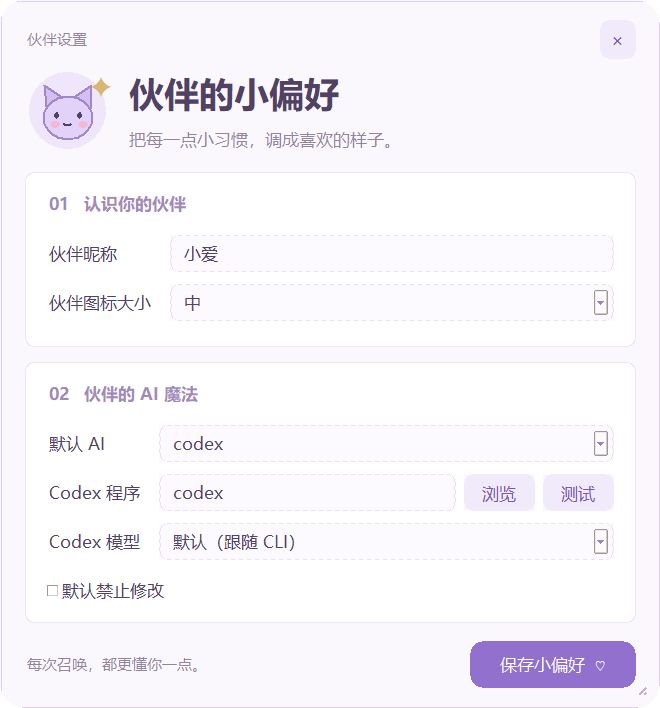
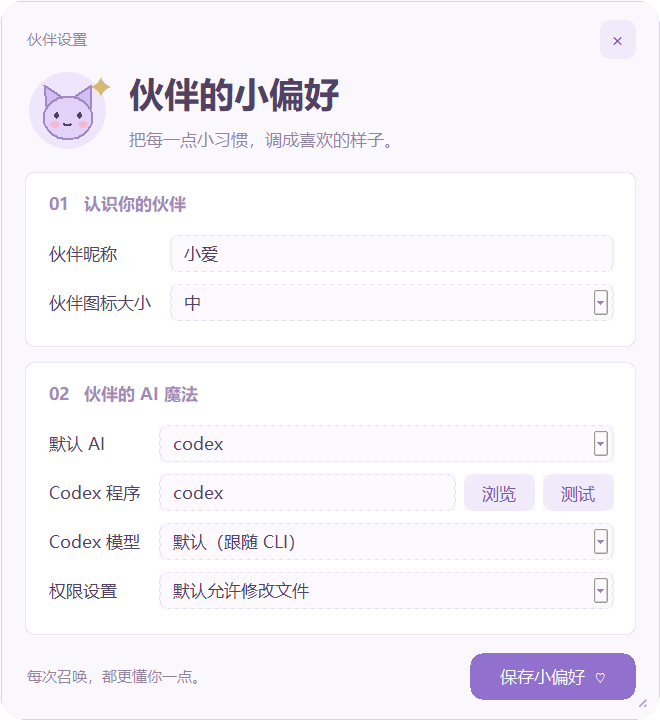
Replace default read-only toggle with permission dropdown

diff --git a/tests/test_settings.py b/tests/test_settings.py
@@ -6,6 +6,28 @@ from ai_help.settings import Settings
 
 
 class SettingsTests(unittest.TestCase):
+    def test_permission_dropdown_loads_existing_config_and_saves_write_access(self):
+        root = tk.Tk()
+        root.withdraw()
+        try:
+            for forbidden in (False, True):
+                with self.subTest(forbidden=forbidden), \
+                     patch('ai_help.settings.load_config', return_value=dict(DEFAULTS, forbid_modification=forbidden)), \
+                     patch('ai_help.settings.save_config') as save, \
+                     patch('ai_help.settings.refresh_menu'):
+                    settings = Settings(tk.Toplevel(root))
+                    self.assertEqual(str(settings.permission_widget['state']), 'readonly')
+                    self.assertEqual(tuple(settings.permission_widget['values']),
+                                     ('默认允许修改文件', '默认禁止修改文件'))
+                    self.assertEqual(settings.permission.get(), '默认禁止修改文件' if forbidden
+                                     else '默认允许修改文件')
+                    settings.permission.set('默认允许修改文件')
+                    settings.save()
+                    self.assertFalse(save.call_args.args[0]['forbid_modification'])
+                    self.assertEqual(save.call_args.args[0]['mode'], 'workspace-write')
+        finally:
+            root.destroy()
+
     def test_manual_program_test_refreshes_cache_and_reports_success_or_failure(self):
         root = tk.Tk()
         root.withdraw()
@@ -247,13 +269,14 @@ class SettingsTests(unittest.TestCase):
                 settings.values['nickname'].set('团子')
                 settings.values['backend'].set('claude')
                 settings.values['pet_size'].set('小')
-                settings.forbid.set(True)
+                settings.permission.set('默认禁止修改文件')
                 settings.save()
                 config = save.call_args.args[0]
                 self.assertEqual(config['pet_size'], '小')
                 self.assertEqual(config['nickname'], '团子')
                 self.assertEqual(config['backend'], 'claude')
                 self.assertEqual(config['mode'], 'read-only')
+                self.assertTrue(config['forbid_modification'])
                 menu.assert_called_once_with('团子')
             finally:
                 root.destroy()

diff --git a/ai_help/settings.py b/ai_help/settings.py
@@ -139,11 +139,16 @@ class Settings:
         for backend in self.backend_widgets:
             self.values[backend + '_path'].trace_add('write', self.schedule_models)
         self.update_backend_fields()
-        self.forbid = tk.BooleanVar(value=self.config['forbid_modification'])
-        forbid = ttk.Checkbutton(intelligence.body, text='默认禁止修改', variable=self.forbid,
-                                 style='Companion.TCheckbutton', cursor='hand2')
-        forbid.grid(row=7, column=0, columnspan=3, sticky='w', pady=(12, 0))
-        self.tips.append(HoverTip(forbid, '修改范围为工作目录；停止不会撤销修改。'))
+        permission_label = tk.Label(intelligence.body, text='权限设置', bg='white', fg=INK, font=FONT)
+        permission_label.grid(row=7, column=0, sticky='w', pady=9)
+        self.permission = tk.StringVar(value='默认禁止修改文件' if self.config['forbid_modification']
+                                       else '默认允许修改文件')
+        self.permission_widget = ttk.Combobox(
+            intelligence.body, textvariable=self.permission,
+            values=['默认允许修改文件', '默认禁止修改文件'], state='readonly',
+            style='Companion.TCombobox', font=FONT)
+        self.permission_widget.grid(row=7, column=1, columnspan=2, sticky='ew', padx=(16, 0), pady=6)
+        self.tips.append(HoverTip(self.permission_widget, '影响下次召唤的默认权限；修改范围为工作目录，停止不会撤销修改。'))
         footer = tk.Frame(content, bg=BG)
         footer.pack(side='bottom', fill='x', pady=(18, 0))
         tk.Label(footer, text='每次召唤，都更懂你一点。', bg=BG, fg=MUTED,
@@ -272,8 +277,9 @@ class Settings:
             messagebox.showerror('程序路径', '程序名称或路径不能为空。', parent=self.window)
             return
         self.config.update(updates)
-        self.config['forbid_modification'] = self.forbid.get()
-        self.config['mode'] = 'read-only' if self.forbid.get() else 'workspace-write'
+        forbid = self.permission.get() == '默认禁止修改文件'
+        self.config['forbid_modification'] = forbid
+        self.config['mode'] = 'read-only' if forbid else 'workspace-write'
         try:
             save_config(self.config)
             refresh_menu(nickname)

diff --git a/scripts/generate_docs_images.py b/scripts/generate_docs_images.py
@@ -67,8 +67,9 @@ def main():
                       text(454, y, '浏览', 16, '#7959A6'),
                       rect(520, y-26, 78, 38, '#F1EAFB', radius=10),
                       text(542, y, '测试', 16, '#7959A6')]
-    parts += [rect(70, 576, 15, 15, '#FCFAFF', '#C4B0DC', 4),
-              text(95, 590, '默认禁止修改', 15),
+    parts += [text(70, 590, '权限设置', 16),
+              rect(222, 564, 376, 38, '#FCFAFF', '#E8E0F0', 10),
+              text(236, 590, '默认允许修改文件', 16), text(574, 590, '⌄', 19, '#9D82BE'),
               text(53, 657, '每次召唤，都更懂你一点。', 13, '#93849F'),
               rect(448, 630, 172, 43, '#9270CE', radius=15),
               text(487, 658, '保存小偏好', 17, 'white')]

diff --git a/README.md b/README.md
@@ -34,7 +34,7 @@ CatHelper 提供桌面入口和对话界面，实际 AI 能力由你选择的 CL
 
 ### 1. 安装
 
-从 [Releases](https://github.com/wuhuaiwei/CatHelper/releases/latest) 下载 `CatAssistant-Setup-1.2.0-x64.exe`，双击按中文向导安装。
+从 [Releases](https://github.com/wuhuaiwei/CatHelper/releases/latest) 下载 `CatAssistant-Setup-1.2.1-x64.exe`，双击按中文向导安装。
 
 安装向导可勾选桌面快捷方式和资源管理器右键菜单。默认安装到当前用户的 `%LOCALAPPDATA%\Programs\CatAssistant`，无需管理员权限。安装包包含 Python、Tkinter 和猫咪图标。
 
@@ -82,7 +82,7 @@ CatHelper 提供桌面入口和对话界面，实际 AI 能力由你选择的 CL
 
 ## 修改权限与数据
 
-小猫菜单里的“允许修改”默认勾选，只影响当前召唤。可在设置中勾选“默认禁止修改”，让后续召唤从只读模式开始。
+小猫菜单里的“允许修改”默认勾选，只影响当前召唤。设置中的“权限设置”下拉框可选择“默认允许修改文件”或“默认禁止修改文件”，决定后续召唤的默认权限。
 
 - Codex 使用 `read-only` 或 `workspace-write`；文件目标的工作目录为其所在文件夹，写入模式可以修改整个工作目录。
 - Claude 分析时开放 Read / Glob / Grep，允许修改后再开放 Edit / Write，不开放 Bash。工具许可不是操作系统目录隔离，读取仍可能涉及工作目录之外。
@@ -128,7 +128,7 @@ python -m pip install pyinstaller==6.11.1
 # 还需要 Inno Setup 6；默认自动寻找 .tools/inno/ISCC.exe 或系统安装位置
 powershell -NoProfile -ExecutionPolicy Bypass -File .\scripts\build_installer.ps1
 # 指定编译器或版本时：
-# .\scripts\build_installer.ps1 -Iscc 'C:\path\ISCC.exe' -Version '1.2.0'
+# .\scripts\build_installer.ps1 -Iscc 'C:\path\ISCC.exe' -Version '1.2.1'
 ```
 
 构建脚本先执行测试，再生成 `dist/CatAssistant/CatAssistant.exe`、安装器和 `dist/SHA256SUMS.txt`。`CatAssistant.exe` 需要同目录的 `_internal`，不能仅复制一个 EXE；普通用户直接使用安装器。

diff --git a/docs/USER_GUIDE.md b/docs/USER_GUIDE.md
@@ -19,7 +19,7 @@
 | 默认 AI | Codex 或 Claude；切换时保留各自填写的配置 |
 | 程序 | 可填写名称、完整路径，或通过浏览选择；点击“测试”检查启动和模型接口，失败时查看安装指引 |
 | 模型 | 默认置灰，成功加载后可选；失败不清空旧值 |
-| 默认禁止修改 | 影响下次召唤的默认权限；当前小猫菜单可独立切换 |
+| 权限设置 | 下拉选择“默认允许修改文件”或“默认禁止修改文件”，影响下次召唤的默认权限；当前小猫菜单可独立切换 |
 
 程序、模型、修改范围的帮助说明在对应选项上悬停即可查看。设置窗口可拖动标题区移动，拖动右下角调整大小，点击右上角 × 关闭。关闭不保存，点击“保存小偏好”才会保存。
 

diff --git a/docs/CHANGELOG.md b/docs/CHANGELOG.md
@@ -1,5 +1,10 @@
 # 更新记录
 
+## v1.2.1 · 2026-10-18
+
+- 将“默认禁止修改”复选框调整为“权限设置”下拉框，可选择“默认允许修改文件”或“默认禁止修改文件”。
+- 保留已有权限配置，更新设置截图与使用说明。
+
 ## v1.2.0 · 2026-10-18
 
 - 程序输入框的“浏览”旁新增“测试”按钮，后台实测 CLI 启动和模型接口，不发送对话请求。
